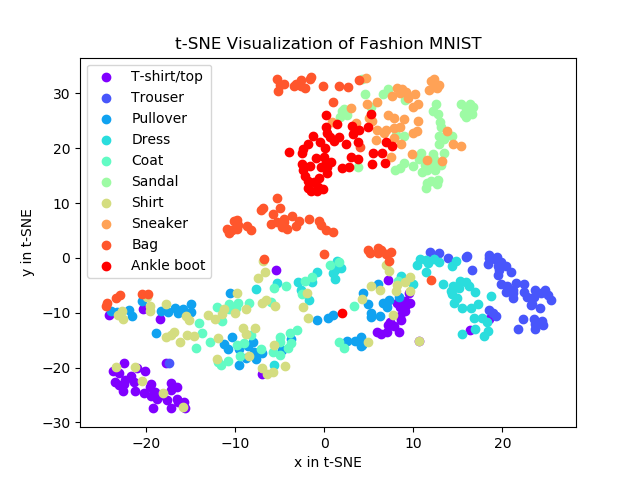
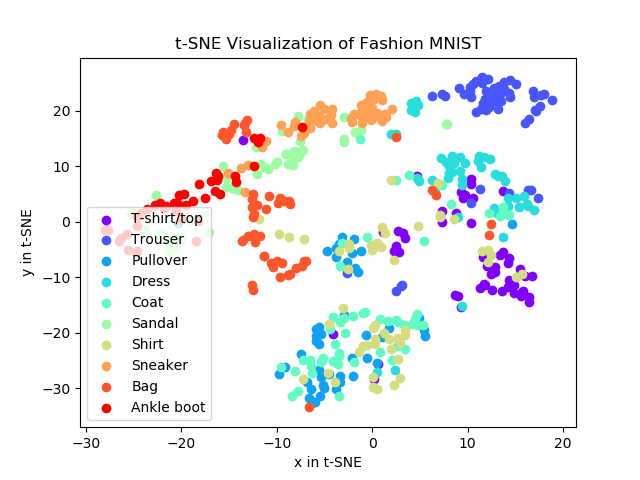
added tsne random state

diff --git a/ex09/t_sne_denoising.py b/ex09/t_sne_denoising.py
@@ -1,6 +1,7 @@
 from exercise_09_starter import Autoencoder, add_white_noise
 import numpy as np
 import torch
+from torch.utils.data.sampler import SequentialSampler
 from torch.autograd import Variable
 from torchvision import datasets, transforms
 from sklearn.manifold import TSNE
@@ -8,13 +9,14 @@ import matplotlib.pyplot as plt
 import matplotlib.cm as cm
 
 # Load data set.
-loader = torch.utils.data.DataLoader(
-    datasets.FashionMNIST('data', train=True, download=True,
-                          transform=transforms.Compose([
-                              transforms.ToTensor(),
-                              transforms.Normalize((0.1307,), (0.3081,))
-                          ])),
-    batch_size=500, shuffle=True)
+dataset = datasets.FashionMNIST('data', train=True, download=True,
+                                transform=transforms.Compose([
+                                    transforms.ToTensor(),
+                                    transforms.Normalize((0.1307,), (0.3081,))
+                                    ]))
+
+loader = torch.utils.data.DataLoader(dataset=dataset,
+                                     batch_size=500, sampler=SequentialSampler(dataset))
 
 # Load model.
 model = Autoencoder()
@@ -29,7 +31,7 @@ encoded_data = model.forward_encoder(data)
 encoded_data = encoded_data.data.numpy()
 
 # Use t-SNE to reduce dimensionality.
-tsne = TSNE(n_components=2)
+tsne = TSNE(n_components=2, random_state=0)
 data_2d = tsne.fit_transform(encoded_data)
 
 # Plot results.
@@ -48,7 +50,7 @@ dic = {0: 'T-shirt/top',
 
 plt.figure()
 
-for idx, lab in enumerate(np.unique(label)):
+for lab in np.unique(label):
     plt.scatter(x=data_2d[label == lab, 0],
                 y=data_2d[label == lab, 1],
                 c=color_map[lab], label=dic[lab])

diff --git a/ex09/t_sne.py b/ex09/t_sne.py
@@ -1,6 +1,7 @@
 from exercise_09_starter import Autoencoder
 import numpy as np
 import torch
+from torch.utils.data.sampler import SequentialSampler
 from torch.autograd import Variable
 from torchvision import datasets, transforms
 from sklearn.manifold import TSNE
@@ -8,13 +9,14 @@ import matplotlib.pyplot as plt
 import matplotlib.cm as cm
 
 # Load data set.
-loader = torch.utils.data.DataLoader(
-    datasets.FashionMNIST('data', train=True, download=True,
-                          transform=transforms.Compose([
-                              transforms.ToTensor(),
-                              transforms.Normalize((0.1307,), (0.3081,))
-                          ])),
-    batch_size=500, shuffle=True)
+dataset = datasets.FashionMNIST('data', train=True, download=True,
+                                transform=transforms.Compose([
+                                    transforms.ToTensor(),
+                                    transforms.Normalize((0.1307,), (0.3081,))
+                                    ]))
+
+loader = torch.utils.data.DataLoader(dataset=dataset,
+                                     batch_size=500, sampler=SequentialSampler(dataset))
 
 # Load model.
 model = Autoencoder()
@@ -29,7 +31,7 @@ encoded_data = model.forward_encoder(data)
 encoded_data = encoded_data.data.numpy()
 
 # Use t-SNE to reduce dimensionality.
-tsne = TSNE(n_components=2)
+tsne = TSNE(n_components=2, random_state=0)
 data_2d = tsne.fit_transform(encoded_data)
 
 # Plot results.
